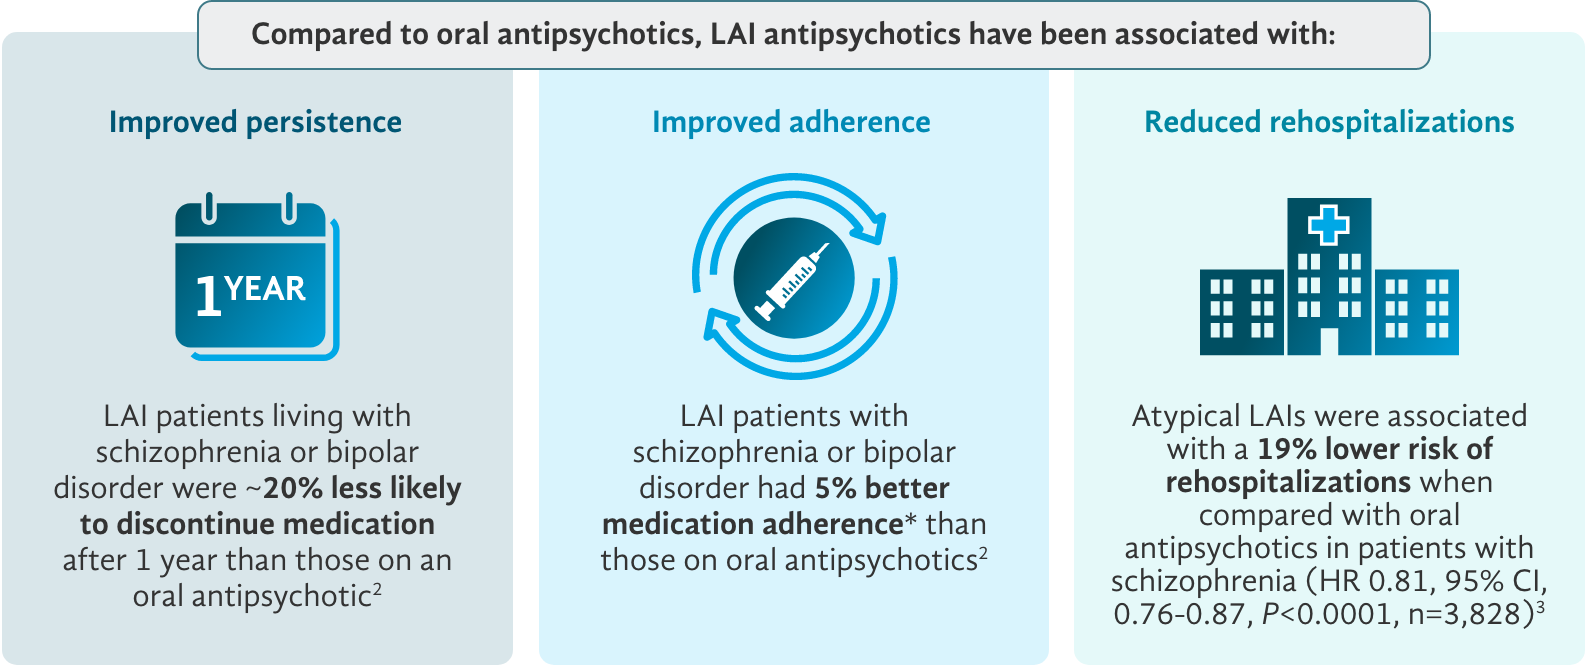
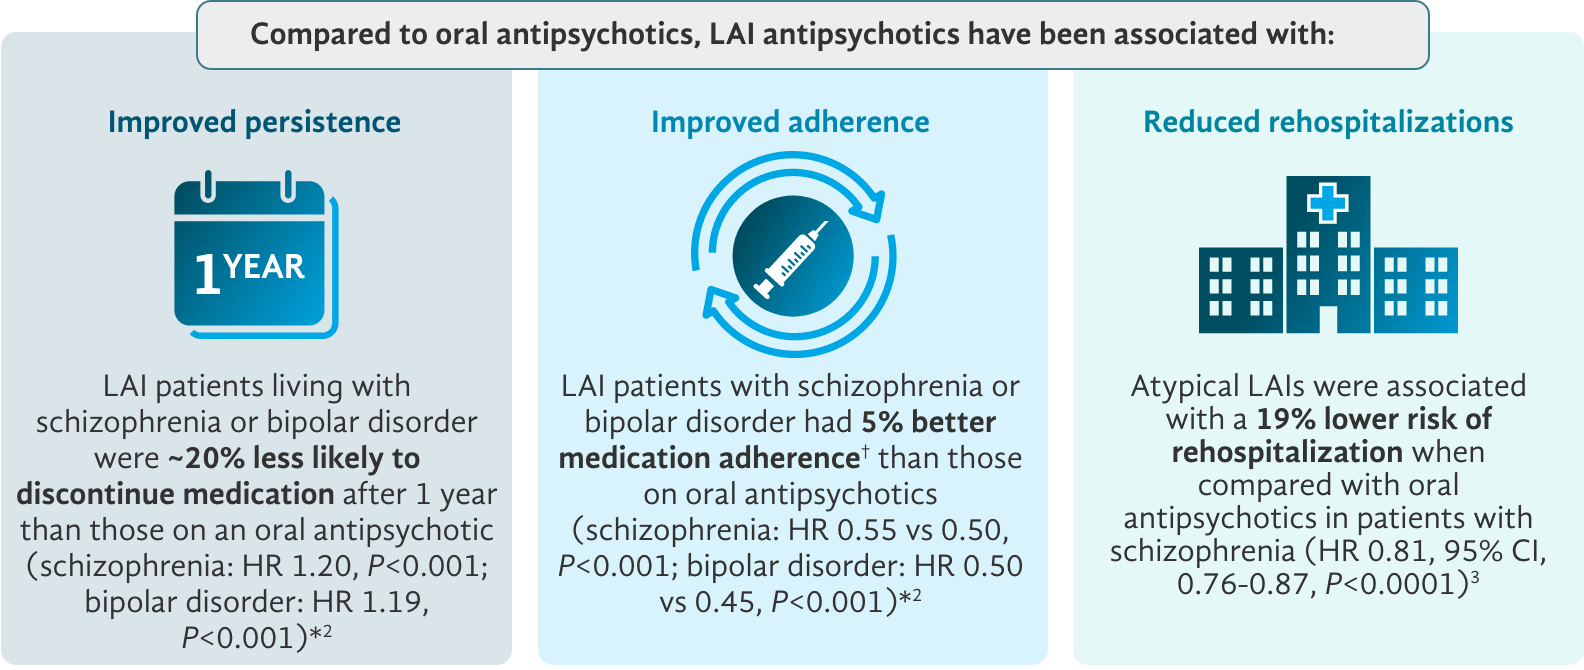
DF-34590 | R1 - A.2.3.1_LAIs update

diff --git a/projects/veeva-clm/src/Components/04-templates/Layouts/Modal/LAISStudyDesign.jsx b/projects/veeva-clm/src/Components/04-templates/Layouts/Modal/LAISStudyDesign.jsx
@@ -94,8 +94,8 @@ export const StudyDesignLAIs1Args = {
               text: (
                 <>
                   Truven Health Analytics MarketScan Multi-State Medicaid and
-                  Truven MarketScan commercial and Medicaid databases (January
-                  1, 2012, through June 30, 2015)
+                  Truven MarketScan commercial databases
+                  <br /> (January 1, 2012, through June 30, 2015)
                 </>
               ),
             },
@@ -297,10 +297,7 @@ export const StudyDesignLAIs1Args = {
         data: [
           {
             innerText: (
-              <span>
-                LAI=long-acting injectable <br />
-                ID=idcntification; LAI=long-acting injectable.
-              </span>
+              <span>ID=identification; LAI=long-acting injectable.</span>
             ),
           },
         ],

diff --git a/projects/veeva-clm/src/Components/05-pages/A.2.3.1_LAIs/A.2.3.1_LAIs.stories.jsx b/projects/veeva-clm/src/Components/05-pages/A.2.3.1_LAIs/A.2.3.1_LAIs.stories.jsx
@@ -44,11 +44,15 @@ const content = () => (
       right={modalTwo}
     />
     <Footer
-      custom='bottom-3'
       footnotes={{
         data: [
           {
             supLeft: '*',
+            innerText: 'LAI user vs oral users.',
+            supRight: '2',
+          },
+          {
+            supLeft: '†',
             innerText:
               'Medication adherence was measured by the proportion of days covered in the 1 year immediately post-index. The adjusted mean proportion of days covered was higher in LAI users than in oral users.',
             supRight: '2',
@@ -85,7 +89,7 @@ const content = () => (
         ],
       }}
       safetyInfo={{
-        custom: 'mt-44',
+        custom: 'mt-24',
         data: [
           {
             text: 'FOR USE WITH FORMULARY DECISION-MAKERS ONLY. DO NOT DUPLICATE OR DISTRIBUTE. ',
